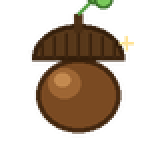
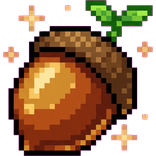
Deel 2: kerker-entree hoger op de trap + doorgang geblokkeerd tot onzichtbaarheid; Higgsfield-art voor wondernoot en dansende bloem

diff --git a/games/ravenholt-deel2/js/engine.js b/games/ravenholt-deel2/js/engine.js
@@ -1618,71 +1618,49 @@
     /* Wondernoot in het plasje + het dansende plantje (kerker) */
     if (fx.nutPlant) {
       const p = fx.nutPlant;
+      if (!p._img && p.img) { p._img = new Image(); p._img.src = p.img + AV; }
+      if (!p._imgNut && p.imgNut) { p._imgNut = new Image(); p._imgNut.src = p.imgNut + AV; }
       if (state.flags.nutInPuddle && !state.flags.plantDancing) {
-        fctx.fillStyle = '#6b4a26'; fctx.fillRect(p.x - 2, p.y - 2, 4, 3);      // de dobberende noot
-        fctx.fillStyle = '#8a6438'; fctx.fillRect(p.x - 1, p.y - 3, 2, 1);
+        const bob = Math.sin(now / 700) * 1.2;                                   // dobberen
+        if (ready(p._imgNut)) {
+          fctx.drawImage(p._imgNut, p.x - 7, p.y - 12 + bob, 14, 14);
+        } else {
+          fctx.fillStyle = '#6b4a26'; fctx.fillRect(p.x - 2, p.y - 2, 4, 3);
+        }
         const rr = 4 + ((now / 600) % 3);                                        // kringetje in het water
         fctx.strokeStyle = 'rgba(180,220,255,0.25)'; fctx.lineWidth = 1;
-        fctx.beginPath(); fctx.ellipse(p.x, p.y, rr * 1.6, rr * 0.5, 0, 0, Math.PI * 2); fctx.stroke();
+        fctx.beginPath(); fctx.ellipse(p.x, p.y, rr * 1.8, rr * 0.55, 0, 0, Math.PI * 2); fctx.stroke();
       }
       if (state.flags.plantDancing) {
-        const sway = Math.sin(now / 300) * 6;            // vrolijk zwieren
-        const bop = Math.abs(Math.sin(now / 300)) * 2.5; // huppeltje
-        const H2 = 34;
-        const hx = p.x + sway, hy = p.y - H2 - bop;      // bloemkop
-        /* zachte toverachtige gloed achter de bloem */
-        const glow = fctx.createRadialGradient(hx, hy, 1, hx, hy, 14);
-        const ga = 0.12 + 0.06 * Math.sin(now / 400);
-        glow.addColorStop(0, `rgba(255,190,230,${ga.toFixed(3)})`);
-        glow.addColorStop(1, 'rgba(255,190,230,0)');
-        fctx.fillStyle = glow; fctx.fillRect(hx - 14, hy - 14, 28, 28);
-        /* stengel als sierlijke boog, iets dikker onderaan */
-        fctx.strokeStyle = '#3f7a2e'; fctx.lineWidth = 3;
-        fctx.beginPath(); fctx.moveTo(p.x, p.y);
-        fctx.quadraticCurveTo(p.x + sway * 0.3, p.y - H2 * 0.55, hx, hy + 4);
-        fctx.stroke();
-        fctx.strokeStyle = '#5da24e'; fctx.lineWidth = 1.4;
-        fctx.beginPath(); fctx.moveTo(p.x, p.y - 1);
-        fctx.quadraticCurveTo(p.x + sway * 0.3, p.y - H2 * 0.55, hx, hy + 4);
-        fctx.stroke();
-        /* twee wapperende blaadjes */
-        for (const [ly, dir] of [[12, -1], [20, 1]]) {
-          const flap = Math.sin(now / 300 + dir) * 0.5 + (dir > 0 ? 0.4 : -0.4);
-          const bx = p.x + sway * (ly / H2) * 0.5, by = p.y - ly;
-          fctx.fillStyle = '#5da24e';
-          fctx.beginPath();
-          fctx.ellipse(bx + dir * 4, by, 4.6, 2, flap, 0, Math.PI * 2);
-          fctx.fill();
-          fctx.fillStyle = '#7cc264';
-          fctx.beginPath();
-          fctx.ellipse(bx + dir * 4.5, by - 0.5, 2.4, 1, flap, 0, Math.PI * 2);
-          fctx.fill();
+        const swayA = Math.sin(now / 320) * 0.11;        // zwieren (radialen om de voet)
+        const bop = Math.abs(Math.sin(now / 320)) * 2.2; // huppeltje
+        const H2 = 56;                                   // hoogte van de bloem in de scene
+        if (ready(p._img)) {
+          const W2 = H2 * (p._img.width / p._img.height);
+          const hx = p.x + Math.sin(swayA) * H2 * 0.5, hy = p.y - H2 * 0.72 - bop;
+          const glow = fctx.createRadialGradient(hx, hy, 2, hx, hy, 18);   // zachte roze gloed achter de bloemkop
+          const ga = 0.12 + 0.06 * Math.sin(now / 400);
+          glow.addColorStop(0, `rgba(255,190,230,${ga.toFixed(3)})`);
+          glow.addColorStop(1, 'rgba(255,190,230,0)');
+          fctx.fillStyle = glow; fctx.fillRect(hx - 18, hy - 18, 36, 36);
+          fctx.save();
+          fctx.translate(p.x, p.y);                      // draai om de voet in het plasje
+          fctx.rotate(swayA);
+          fctx.scale(1 + 0.03 * Math.sin(now / 320), 1 - 0.03 * Math.sin(now / 320));   // squash & stretch op de maat
+          fctx.drawImage(p._img, -W2 / 2, -H2 - bop, W2, H2);
+          fctx.restore();
+          /* dwarrelende sparkles + dansende muzieknootjes */
+          for (let k = 0; k < 4; k++) {
+            const a2 = 0.3 + 0.5 * (0.5 + 0.5 * Math.sin(now / 380 + k * 2.2));
+            twinkle(hx + Math.sin(now / (460 + k * 120) + k * 1.7) * 11, hy - 4 - ((now / 40 + k * 9) % 20), a2, k % 2 ? '255,220,150' : '255,190,230');
+          }
+          const na = Math.max(0, 0.35 + 0.35 * Math.sin(now / 350));
+          fctx.font = '8px Georgia, serif'; fctx.textAlign = 'center'; fctx.textBaseline = 'middle';
+          fctx.fillStyle = `rgba(200,235,255,${na.toFixed(3)})`;
+          fctx.fillText('\u266a', hx + Math.sin(now / 500) * 13, hy - 16 - ((now / 60) % 10));
+          fctx.fillStyle = `rgba(255,215,170,${(0.7 - na).toFixed(3)})`;
+          fctx.fillText('\u266b', hx - 10 + Math.cos(now / 620) * 9, hy - 10 - ((now / 75 + 5) % 10));
         }
-        /* bloem: buitenste roze blaadjes + binnenring wit + gouden hart, draait mee op de maat */
-        for (let i = 0; i < 6; i++) {
-          const a = now / 650 + i * (Math.PI * 2 / 6);
-          const px3 = hx + Math.cos(a) * 4.6, py3 = hy + Math.sin(a) * 4.6;
-          fctx.fillStyle = '#ff8fb8';
-          fctx.beginPath(); fctx.ellipse(px3, py3, 2.6, 1.7, a, 0, Math.PI * 2); fctx.fill();
-          fctx.fillStyle = '#ffc2d9';
-          fctx.beginPath(); fctx.ellipse(px3, py3, 1.3, 0.8, a, 0, Math.PI * 2); fctx.fill();
-        }
-        for (let i = 0; i < 6; i++) {                    // witte binnenring
-          const a = -now / 650 + i * (Math.PI * 2 / 6) + 0.5;
-          fctx.fillStyle = 'rgba(255,245,255,0.9)';
-          fctx.fillRect(Math.round(hx + Math.cos(a) * 2.2) - 1, Math.round(hy + Math.sin(a) * 2.2) - 1, 1.6, 1.6);
-        }
-        fctx.fillStyle = '#ffd36b'; fctx.beginPath(); fctx.arc(hx, hy, 1.9, 0, Math.PI * 2); fctx.fill();
-        fctx.fillStyle = '#fff0c0'; fctx.fillRect(Math.round(hx) - 1, Math.round(hy) - 1, 1, 1);
-        /* dwarrelende sparkles + een dansend muzieknootje */
-        for (let i = 0; i < 4; i++) {
-          const a2 = 0.3 + 0.5 * (0.5 + 0.5 * Math.sin(now / 380 + i * 2.2));
-          twinkle(hx + Math.sin(now / (460 + i * 120) + i * 1.7) * 10, hy - 5 - ((now / 40 + i * 9) % 18), a2, i % 2 ? '255,220,150' : '255,190,230');
-        }
-        const na = 0.35 + 0.35 * Math.sin(now / 350);
-        fctx.font = '8px Georgia, serif'; fctx.textAlign = 'center'; fctx.textBaseline = 'middle';
-        fctx.fillStyle = `rgba(200,235,255,${Math.max(0, na).toFixed(3)})`;
-        fctx.fillText('\u266a', hx + Math.sin(now / 500) * 12, hy - 14 - ((now / 60) % 10));
       }
     }
     /* Glinsterend water: koele blauwe twinkels + een zachte glans die over het plasje glijdt */

diff --git a/games/ravenholt-deel2/js/data.js b/games/ravenholt-deel2/js/data.js
@@ -14,7 +14,7 @@ const GAME = {
   title:      { nl: 'Fluisteringen van Ravenholt — Deel 2', en: 'Whispers of Ravenholt — Part 2' },
   titleLines: { nl: ['Fluisteringen', 'van Ravenholt', '· Deel 2 ·'], en: ['Whispers of', 'Ravenholt', '· Part 2 ·'] },
   startScene: 'courtyard',
-  assetVer: '163',
+  assetVer: '164',
 
   /* Finn — vaste figuur: roodharige jongen, blauwe kapmantel, leren tas, houten staf.
      idle = hero, lopen = 4-frame loopsheet (heroWalkSheet), zwaaien = heroWave.
@@ -994,21 +994,23 @@ const GAME = {
         nl: 'De wenteltrap komt uit in een klamme kerker diep onder het kasteel. Fakkels walmen aan de muren, kettingen rammelen zacht. Rechts, achter dikke ijzeren tralies, zit een magere gestalte gevangen — en er tussenin staat een reusachtige wachter, zijn hellebaard in de hand. Hij mag je niet zien.',
         en: 'The spiral stair opens into a clammy dungeon deep beneath the castle. Torches gutter on the walls, chains rattle softly. To the right, behind thick iron bars, a thin figure is imprisoned — and between you and it stands a huge guard, halberd in hand. He must not see you.'
       },
-      playerStart: { x: 100, y: 246 },
-      spawnFrom: { library: { x: 100, y: 246 } },
+      playerStart: { x: 92, y: 226 },
+      spawnFrom: { library: { x: 92, y: 226 } },
       depth: { far: 250, near: 314, sFar: 1.00, sNear: 1.40 },   // Finn wat groter in de kerker
       walkable: [
+        { x: 44, y: 212, w: 104, h: 40 },                // de onderste treden van de trap (hoger startpunt)
         { x: 36, y: 246, w: 444, h: 66 }                 // de natte kerkervloer, van de trap links tot vlak voor de cel
       ],
       obstacles: [
         { x: 182, y: 200, w: 94, h: 28 },                // de houten tafel met de fles
         { x: 276, y: 196, w: 70, h: 28 },                // de tonnen naast de tafel
+        { x: 152, y: 206, w: 340, h: 110, notFlag: 'guardPassed' },  // zolang de wachter je kan zien kom je de trap niet af — alleen terug, tot je onzichtbaar bent
         { x: 288, y: 236, w: 68, h: 76, notFlag: 'guardPassed' }   // de wachter verspert de doorgang — tot je onzichtbaar bent (dan loop je er dwars langs)
       ],
       overlays: [],
       fx: {
         bookSparkle: { x: 230, y: 206, r: 13, doneFlag: 'gotCellKey' },  // de sleutel glinstert op de wachttafel tot je hem hebt
-        nutPlant:  { x: 60, y: 284 },                                    // wondernoot + dansend plantje in het plasje links
+        nutPlant:  { x: 60, y: 290, img: 'assets/art/plant-dance.png', imgNut: 'assets/art/item-bignut.png' },   // wondernoot + dansend plantje in het plasje links
         waterGlint: { x: 60, y: 285, w: 30 },                            // het plasje glinstert blauw
         lockGlint: { x: 432, y: 218, requiresFlag: 'gotCellKey', doneFlag: 'fatherFreed' }   // het celslot glinstert goud
       },

diff --git a/games/ravenholt-deel2/index.html b/games/ravenholt-deel2/index.html
@@ -26,7 +26,7 @@
   <link rel="preconnect" href="https://fonts.googleapis.com">
   <link rel="preconnect" href="https://fonts.gstatic.com" crossorigin>
   <link href="https://fonts.googleapis.com/css2?family=Crimson+Pro:ital,wght@0,400;0,600;1,400&family=Pixelify+Sans:wght@400;600&display=swap" rel="stylesheet">
-  <link rel="stylesheet" href="css/style.css?v=163">
+  <link rel="stylesheet" href="css/style.css?v=164">
   <script type="application/ld+json">
   {
     "@context": "https://schema.org",
@@ -125,7 +125,7 @@
   </div>
 
   <div id="title-screen" class="overlay title">
-    <img class="title-bg" src="assets/art/title.jpg?v=163" alt="Whispers of Ravenholt" onerror="this.remove()">
+    <img class="title-bg" src="assets/art/title.jpg?v=164" alt="Whispers of Ravenholt" onerror="this.remove()">
     <div class="title-content">
       <h1 id="title-h1" hidden><span>Whispers of</span><br><span>Ravenholt</span></h1>
       <p id="title-sub" class="subtitle" hidden>Een point-and-click avontuur</p>
@@ -146,7 +146,7 @@
 
   <div id="win-screen" class="overlay" hidden>
     <div class="overlay-card panel">
-      <img class="win-banner" src="assets/art/win-deel2.jpg?v=163" alt="" onerror="this.remove()">
+      <img class="win-banner" src="assets/art/win-deel2.jpg?v=164" alt="" onerror="this.remove()">
       <h1 id="win-h1">Deel 1 uitgespeeld!</h1>
       <p class="intro" id="winText"></p>
       <button id="replayBtn" class="gold-btn">Opnieuw spelen</button>
@@ -314,10 +314,10 @@
     </div>
   </div>
 
-  <script src="js/sprites.js?v=163"></script>
-  <script src="js/scenes.js?v=163"></script>
-  <script src="js/data.js?v=163"></script>
-  <script src="js/engine.js?v=163"></script>
+  <script src="js/sprites.js?v=164"></script>
+  <script src="js/scenes.js?v=164"></script>
+  <script src="js/data.js?v=164"></script>
+  <script src="js/engine.js?v=164"></script>
   <script>
     if ('serviceWorker' in navigator) {
       window.addEventListener('load', () => {

diff --git a/games/ravenholt-deel2/sw.js b/games/ravenholt-deel2/sw.js
@@ -4,7 +4,7 @@
    offline beschikbaar wilt hebben (optioneel — niet-vermelde bestanden worden bij
    eerste gebruik alsnog gecachet). */
 
-const CACHE = 'ravenholt2-v163';
+const CACHE = 'ravenholt2-v164';
 
 const PRECACHE = [
   './',
